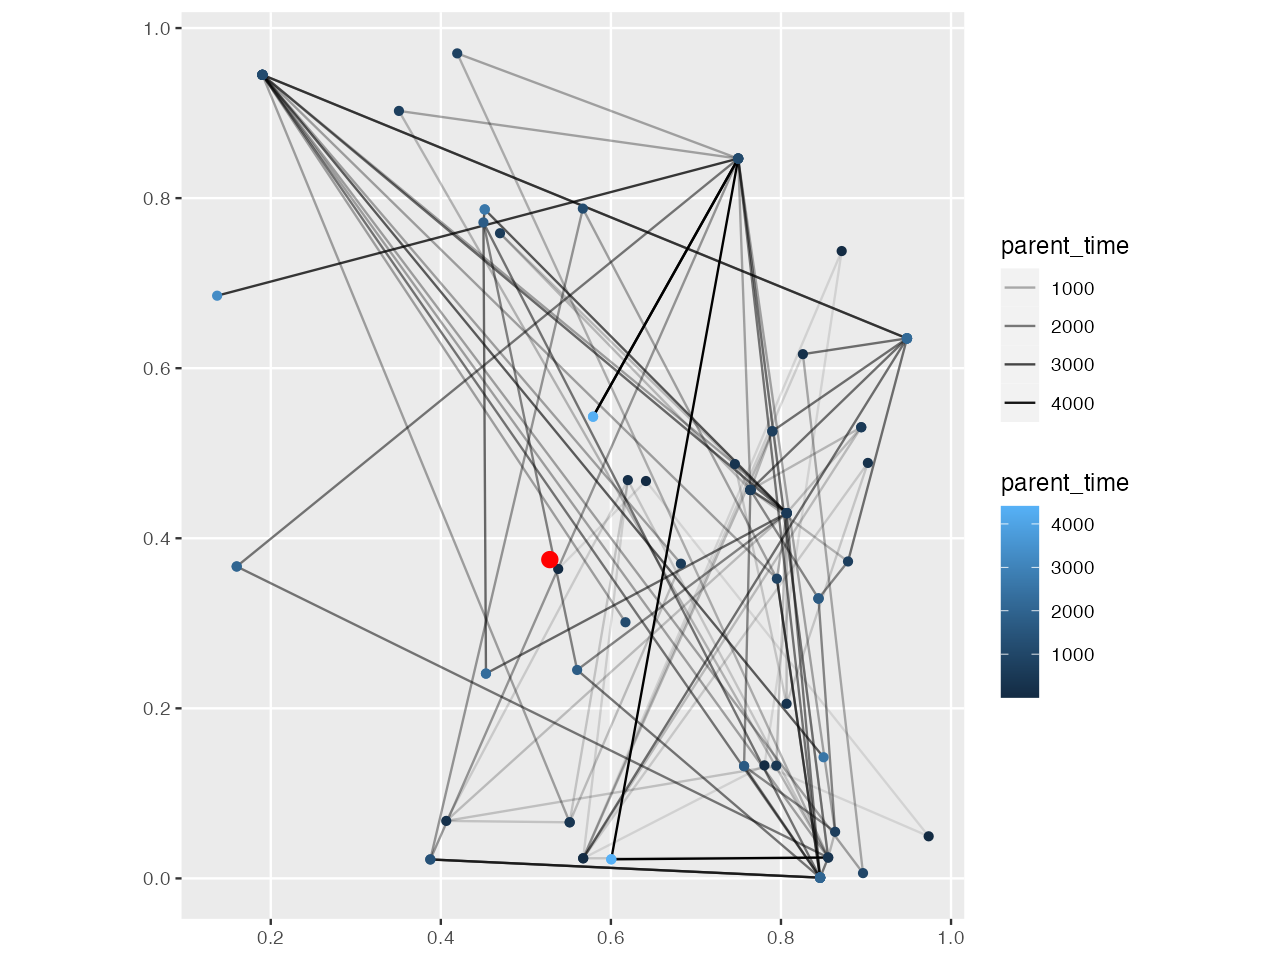
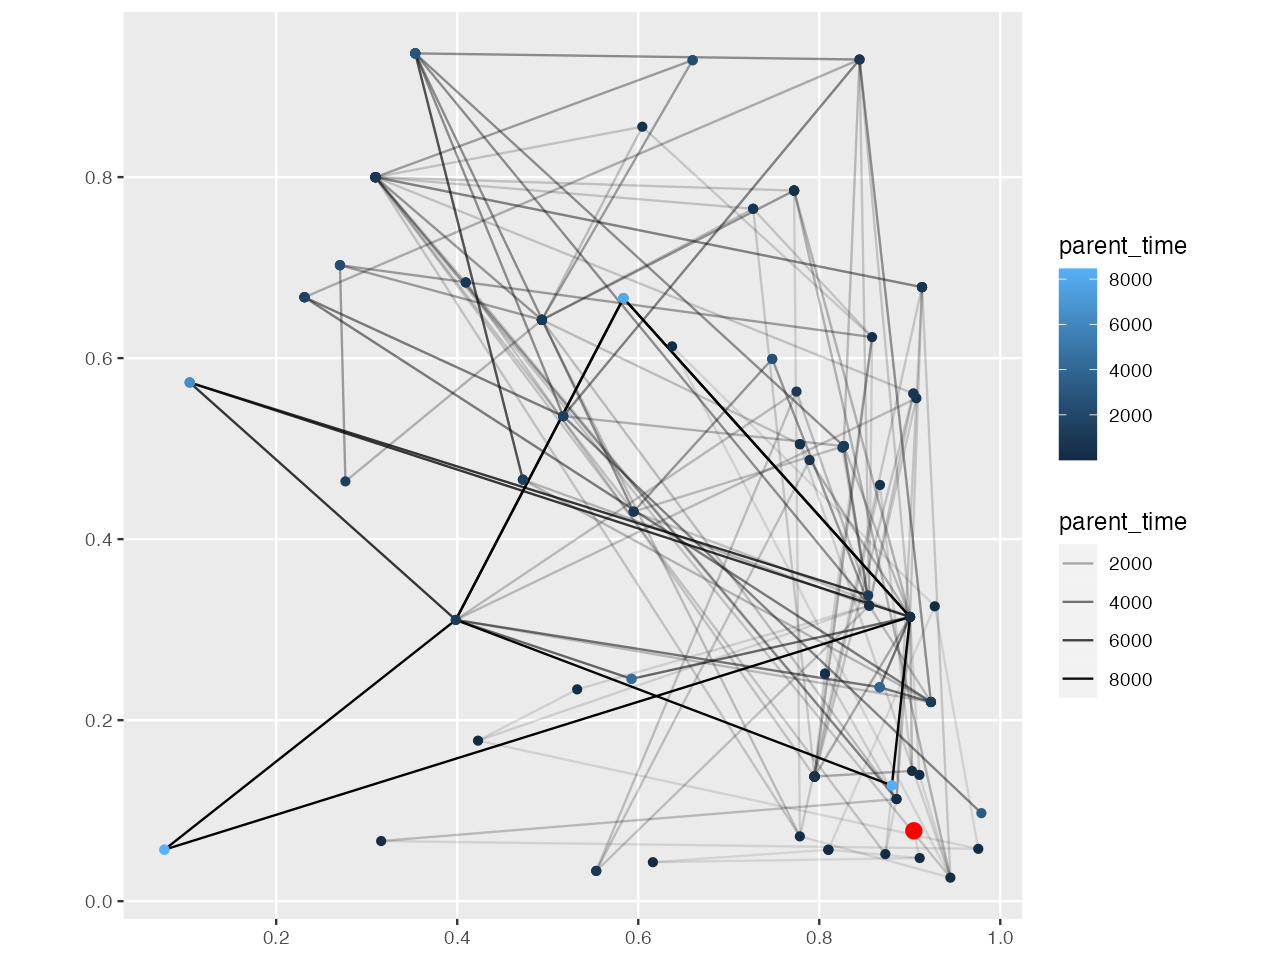
Update the non-slendr vignette rendering

diff --git a/docs/articles/vignette-08-nonslendr-tskit.html b/docs/articles/vignette-08-nonslendr-tskit.html
@@ -181,7 +181,10 @@ provided by <em>slendr</em></a>.</p>
 <span class="kw"><a href="https://rdrr.io/r/base/library.html" class="external-link">library</a></span><span class="op">(</span><span class="va"><a href="https://dplyr.tidyverse.org" class="external-link">dplyr</a></span><span class="op">)</span>
 <span class="kw"><a href="https://rdrr.io/r/base/library.html" class="external-link">library</a></span><span class="op">(</span><span class="va"><a href="https://magrittr.tidyverse.org" class="external-link">magrittr</a></span><span class="op">)</span>
 <span class="kw"><a href="https://rdrr.io/r/base/library.html" class="external-link">library</a></span><span class="op">(</span><span class="va"><a href="https://ggplot2.tidyverse.org" class="external-link">ggplot2</a></span><span class="op">)</span>
-<span class="kw"><a href="https://rdrr.io/r/base/library.html" class="external-link">library</a></span><span class="op">(</span><span class="va"><a href="https://yulab-smu.top/treedata-book/" class="external-link">ggtree</a></span><span class="op">)</span></code></pre></div>
+<span class="kw"><a href="https://rdrr.io/r/base/library.html" class="external-link">library</a></span><span class="op">(</span><span class="va"><a href="https://yulab-smu.top/treedata-book/" class="external-link">ggtree</a></span><span class="op">)</span>
+
+<span class="va">SEED</span> <span class="op">&lt;-</span> <span class="fl">42</span>
+<span class="fu"><a href="https://rdrr.io/r/base/Random.html" class="external-link">set.seed</a></span><span class="op">(</span><span class="va">SEED</span><span class="op">)</span></code></pre></div>
 <div class="section level4">
 <h4 id="non-spatial-slim-tree-sequences">Non-spatial SLiM tree sequences<a class="anchor" aria-label="anchor" href="#non-spatial-slim-tree-sequences"></a>
 </h4>
@@ -190,6 +193,7 @@ populations (with different <span class="math inline">\(N_e\)</span>)
 splitting from an ancestral population <code>p1</code> (lets save it to
 <code>/tmp/nonspatial.slim</code>):</p>
 <pre><code>initialize() {
+    setSeed(42);
     initializeTreeSeq();
     initializeMutationRate(0);
     initializeMutationType("m1", 0.5, "f", 0.0);
@@ -231,7 +235,7 @@ way, <em>slendr</em></p>
 <div class="sourceCode" id="cb3"><pre class="downlit sourceCode r">
 <code class="sourceCode R"><span class="va">ts</span> <span class="op">&lt;-</span> <span class="fu"><a href="../reference/ts_load.html">ts_load</a></span><span class="op">(</span><span class="st">"/tmp/nonspatial-slim.trees"</span><span class="op">)</span> <span class="op"><a href="../reference/pipe.html">%&gt;%</a></span>
   <span class="fu"><a href="../reference/ts_simplify.html">ts_simplify</a></span><span class="op">(</span><span class="op">)</span> <span class="op"><a href="../reference/pipe.html">%&gt;%</a></span>
-  <span class="fu"><a href="../reference/ts_mutate.html">ts_mutate</a></span><span class="op">(</span>mutation_rate <span class="op">=</span> <span class="fl">1e-7</span><span class="op">)</span></code></pre></div>
+  <span class="fu"><a href="../reference/ts_mutate.html">ts_mutate</a></span><span class="op">(</span>mutation_rate <span class="op">=</span> <span class="fl">1e-7</span>, random_seed <span class="op">=</span> <span class="va">SEED</span><span class="op">)</span></code></pre></div>
 <p>We can extract information about individual’s names, nodes,
 population assignments, etc. just as with any <em>slendr</em> tree
 sequence with the function <code><a href="../reference/ts_nodes.html">ts_nodes()</a></code>. As with standard
@@ -294,10 +298,10 @@ function, by first creating a list of lists with node IDs
 <span class="co">#&gt; <span style="color: #949494;"># A tibble: 4 × 2</span></span>
 <span class="co">#&gt;   set    diversity</span>
 <span class="co">#&gt;   <span style="color: #949494; font-style: italic;">&lt;chr&gt;</span>      <span style="color: #949494; font-style: italic;">&lt;dbl&gt;</span></span>
-<span class="co">#&gt; <span style="color: #BCBCBC;">1</span> p1    0.000<span style="text-decoration: underline;">001</span>53</span>
-<span class="co">#&gt; <span style="color: #BCBCBC;">2</span> p2    0.000<span style="text-decoration: underline;">197</span>  </span>
-<span class="co">#&gt; <span style="color: #BCBCBC;">3</span> p3    0.000<span style="text-decoration: underline;">467</span>  </span>
-<span class="co">#&gt; <span style="color: #BCBCBC;">4</span> p4    0.000<span style="text-decoration: underline;">196</span></span></code></pre></div>
+<span class="co">#&gt; <span style="color: #BCBCBC;">1</span> p1    0.000<span style="text-decoration: underline;">007</span>55</span>
+<span class="co">#&gt; <span style="color: #BCBCBC;">2</span> p2    0.000<span style="text-decoration: underline;">241</span>  </span>
+<span class="co">#&gt; <span style="color: #BCBCBC;">3</span> p3    0.000<span style="text-decoration: underline;">463</span>  </span>
+<span class="co">#&gt; <span style="color: #BCBCBC;">4</span> p4    0.000<span style="text-decoration: underline;">201</span></span></code></pre></div>
 <p>Just as with <em>slendr</em> tree sequences (as demonstrated in our
 <a href="vignette-09-paper.html#example-4-figure-5">paper</a>) we can
 get a individual trees too, extracted in the in the phylogenetic format
@@ -319,9 +323,9 @@ package. Here we first simplify the tree sequence even further to just
 <span class="co">#&gt; Phylogenetic tree with 10 tips and 9 internal nodes.</span>
 <span class="co">#&gt; </span>
 <span class="co">#&gt; Tip labels:</span>
-<span class="co">#&gt;   4, 3, 8, 7, 1, 5, ...</span>
+<span class="co">#&gt;   1, 0, 9, 4, 8, 7, ...</span>
 <span class="co">#&gt; Node labels:</span>
-<span class="co">#&gt;   44, 27, 33, 35, 37, 38, ...</span>
+<span class="co">#&gt;   45, 28, 22, 31, 35, 36, ...</span>
 <span class="co">#&gt; </span>
 <span class="co">#&gt; Rooted; includes branch lengths.</span></code></pre></div>
 <p>Once we have that R tree object, we can use packages like <a href="https://yulab-smu.top/treedata-book/" class="external-link">ggtree</a> to visualize the
@@ -354,30 +358,31 @@ whistles</a>.</p>
 <p>For instance, lets take the following spatial SLiM script (modified
 from the SLiM manual) and execute it with SLiM the usual way:</p>
 <pre><code>initialize() {
-    initializeSLiMOptions(keepPedigrees=T, dimensionality="xy");
-    initializeTreeSeq();
-    initializeMutationRate(1e-7);
-    initializeMutationType("m1", 0.5, "f", 0.0);
-    initializeGenomicElementType("g1", m1, 1.0);
-    initializeGenomicElement(g1, 0, 1e6);
-    initializeRecombinationRate(1e-8);
+    setSeed(42);
+      initializeSLiMOptions(keepPedigrees=T, dimensionality="xy");
+      initializeTreeSeq();
+      initializeMutationRate(1e-7);
+      initializeMutationType("m1", 0.5, "f", 0.0);
+      initializeGenomicElementType("g1", m1, 1.0);
+      initializeGenomicElement(g1, 0, 1e6);
+      initializeRecombinationRate(1e-8);
 }
 1 early() {
     sim.addSubpop("p1", 500);
 
     // initial positions are random in ([0,1], [0,1])
     p1.individuals.x = runif(p1.individualCount);
-    p1.individuals.y = runif(p1.individualCount);
+      p1.individuals.y = runif(p1.individualCount);
 }
 modifyChild() {
-    // draw a child position near the first parent, within bounds
-    do child.x = parent1.x + rnorm(1, 0, 0.02);
-    while ((child.x &lt; 0.0) | (child.x &gt; 1.0));
+      // draw a child position near the first parent, within bounds
+      do child.x = parent1.x + rnorm(1, 0, 0.02);
+      while ((child.x &lt; 0.0) | (child.x &gt; 1.0));
 
-    do child.y = parent1.y + rnorm(1, 0, 0.02);
-    while ((child.y &lt; 0.0) | (child.y &gt; 1.0));
+      do child.y = parent1.y + rnorm(1, 0, 0.02);
+      while ((child.y &lt; 0.0) | (child.y &gt; 1.0));
 
-    return T;
+      return T;
 }
 1: late() {
     sim.treeSeqRememberIndividuals(sim.subpopulations.individuals, permanent = F);
@@ -406,7 +411,7 @@ spatial <a href="https://r-spatial.github.io/sf/" class="external-link"><em>sf</
 <span class="co">#&gt; </span>
 <span class="co">#&gt; total:</span>
 <span class="co">#&gt;   - 0 'remembered' individuals</span>
-<span class="co">#&gt;   - 888 'retained' individuals</span>
+<span class="co">#&gt;   - 895 'retained' individuals</span>
 <span class="co">#&gt;   - 0 no nodes from other individuals</span>
 <span class="co">#&gt; ---------------------</span>
 <span class="co">#&gt; Warning in funs[[1]](.$time): no non-missing arguments to max; returning -Inf</span>
@@ -414,25 +419,25 @@ spatial <a href="https://r-spatial.github.io/sf/" class="external-link"><em>sf</
 <span class="co">#&gt; Warning in funs[[2]](.$time): no non-missing arguments to min; returning Inf</span>
 <span class="co">#&gt; youngest remembered individual: Inf time units 'before present' </span>
 <span class="co">#&gt; </span>
-<span class="co">#&gt; oldest node: 4409 time units 'before present' </span>
+<span class="co">#&gt; oldest node: 8463 time units 'before present' </span>
 <span class="co">#&gt; youngest node: 0 time units 'before present' </span>
 <span class="co">#&gt; --------------------- </span>
 <span class="co">#&gt; overview of the underlying sf object:</span>
 <span class="co">#&gt; </span>
-<span class="co">#&gt; <span style="color: #949494;"># A tibble: 1,953 × 11</span></span>
-<span class="co">#&gt;    pop   node_id  time time_tskit                location sampled remembered</span>
-<span class="co">#&gt;    <span style="color: #949494; font-style: italic;">&lt;chr&gt;</span>   <span style="color: #949494; font-style: italic;">&lt;int&gt;</span> <span style="color: #949494; font-style: italic;">&lt;dbl&gt;</span>      <span style="color: #949494; font-style: italic;">&lt;dbl&gt;</span>                 <span style="color: #949494; font-style: italic;">&lt;POINT&gt;</span> <span style="color: #949494; font-style: italic;">&lt;lgl&gt;</span>   <span style="color: #949494; font-style: italic;">&lt;lgl&gt;</span>     </span>
-<span class="co">#&gt; <span style="color: #BCBCBC;"> 1</span> p1          0     0          0   (0.5281721 0.3749143) TRUE    FALSE     </span>
-<span class="co">#&gt; <span style="color: #BCBCBC;"> 2</span> p1          1     0          0   (0.5281721 0.3749143) TRUE    FALSE     </span>
-<span class="co">#&gt; <span style="color: #BCBCBC;"> 3</span> p1          2     0          0 (0.8267482 0.006725554) TRUE    FALSE     </span>
-<span class="co">#&gt; <span style="color: #BCBCBC;"> 4</span> p1          3     0          0 (0.8267482 0.006725554) TRUE    FALSE     </span>
-<span class="co">#&gt; <span style="color: #BCBCBC;"> 5</span> p1          4     0          0   (0.5636173 0.1457053) TRUE    FALSE     </span>
-<span class="co">#&gt; <span style="color: #BCBCBC;"> 6</span> p1          5     0          0   (0.5636173 0.1457053) TRUE    FALSE     </span>
-<span class="co">#&gt; <span style="color: #BCBCBC;"> 7</span> p1          6     0          0  (0.9004356 0.04667496) TRUE    FALSE     </span>
-<span class="co">#&gt; <span style="color: #BCBCBC;"> 8</span> p1          7     0          0  (0.9004356 0.04667496) TRUE    FALSE     </span>
-<span class="co">#&gt; <span style="color: #BCBCBC;"> 9</span> p1          8     0          0   (0.8627544 0.5735851) TRUE    FALSE     </span>
-<span class="co">#&gt; <span style="color: #BCBCBC;">10</span> p1          9     0          0   (0.8627544 0.5735851) TRUE    FALSE     </span>
-<span class="co">#&gt; <span style="color: #949494;"># … with 1,943 more rows, and 4 more variables: retained &lt;lgl&gt;, alive &lt;lgl&gt;,</span></span>
+<span class="co">#&gt; <span style="color: #949494;"># A tibble: 1,955 × 11</span></span>
+<span class="co">#&gt;    pop   node_id  time time_tskit               location sampled remembered</span>
+<span class="co">#&gt;    <span style="color: #949494; font-style: italic;">&lt;chr&gt;</span>   <span style="color: #949494; font-style: italic;">&lt;int&gt;</span> <span style="color: #949494; font-style: italic;">&lt;dbl&gt;</span>      <span style="color: #949494; font-style: italic;">&lt;dbl&gt;</span>                <span style="color: #949494; font-style: italic;">&lt;POINT&gt;</span> <span style="color: #949494; font-style: italic;">&lt;lgl&gt;</span>   <span style="color: #949494; font-style: italic;">&lt;lgl&gt;</span>     </span>
+<span class="co">#&gt; <span style="color: #BCBCBC;"> 1</span> p1          0     0          0   (0.904485 0.0777489) TRUE    FALSE     </span>
+<span class="co">#&gt; <span style="color: #BCBCBC;"> 2</span> p1          1     0          0   (0.904485 0.0777489) TRUE    FALSE     </span>
+<span class="co">#&gt; <span style="color: #BCBCBC;"> 3</span> p1          2     0          0   (0.668828 0.5246381) TRUE    FALSE     </span>
+<span class="co">#&gt; <span style="color: #BCBCBC;"> 4</span> p1          3     0          0   (0.668828 0.5246381) TRUE    FALSE     </span>
+<span class="co">#&gt; <span style="color: #BCBCBC;"> 5</span> p1          4     0          0  (0.7707701 0.1518462) TRUE    FALSE     </span>
+<span class="co">#&gt; <span style="color: #BCBCBC;"> 6</span> p1          5     0          0  (0.7707701 0.1518462) TRUE    FALSE     </span>
+<span class="co">#&gt; <span style="color: #BCBCBC;"> 7</span> p1          6     0          0  (0.7617792 0.2616453) TRUE    FALSE     </span>
+<span class="co">#&gt; <span style="color: #BCBCBC;"> 8</span> p1          7     0          0  (0.7617792 0.2616453) TRUE    FALSE     </span>
+<span class="co">#&gt; <span style="color: #BCBCBC;"> 9</span> p1          8     0          0 (0.9807475 0.04223008) TRUE    FALSE     </span>
+<span class="co">#&gt; <span style="color: #BCBCBC;">10</span> p1          9     0          0 (0.9807475 0.04223008) TRUE    FALSE     </span>
+<span class="co">#&gt; <span style="color: #949494;"># … with 1,945 more rows, and 4 more variables: retained &lt;lgl&gt;, alive &lt;lgl&gt;,</span></span>
 <span class="co">#&gt; <span style="color: #949494;">#   pedigree_id &lt;dbl&gt;, ind_id &lt;dbl&gt;</span></span></code></pre></div>
 <p>Because we get the tree sequence converted to the spatial <a href="https://r-spatial.github.io/sf/" class="external-link"><em>sf</em></a> data format, we
 can use standard geospatial packages to use any spatial data analysis
